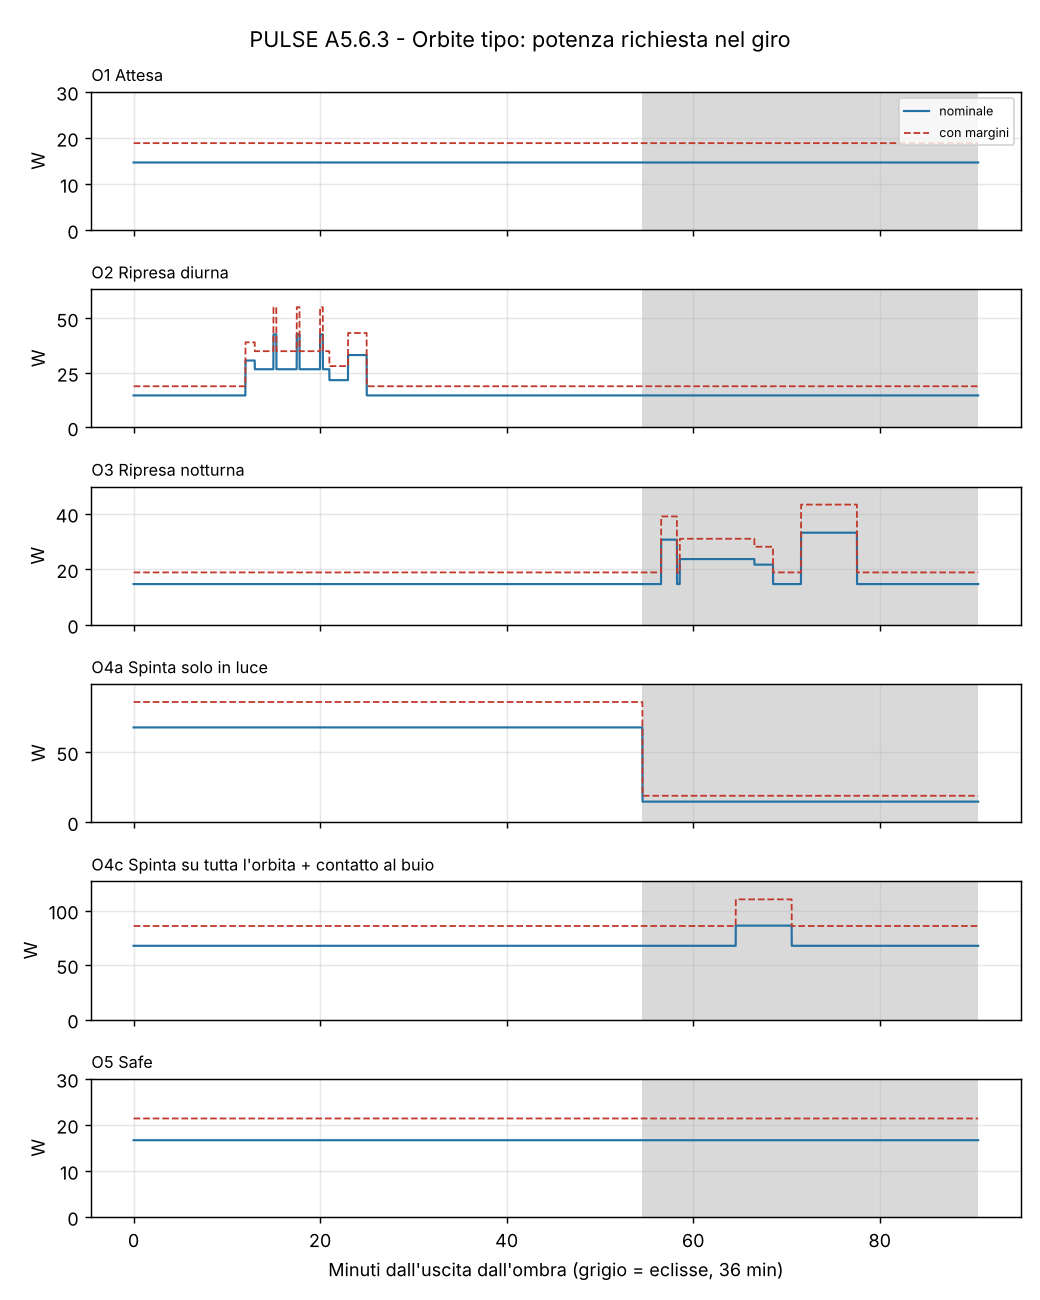
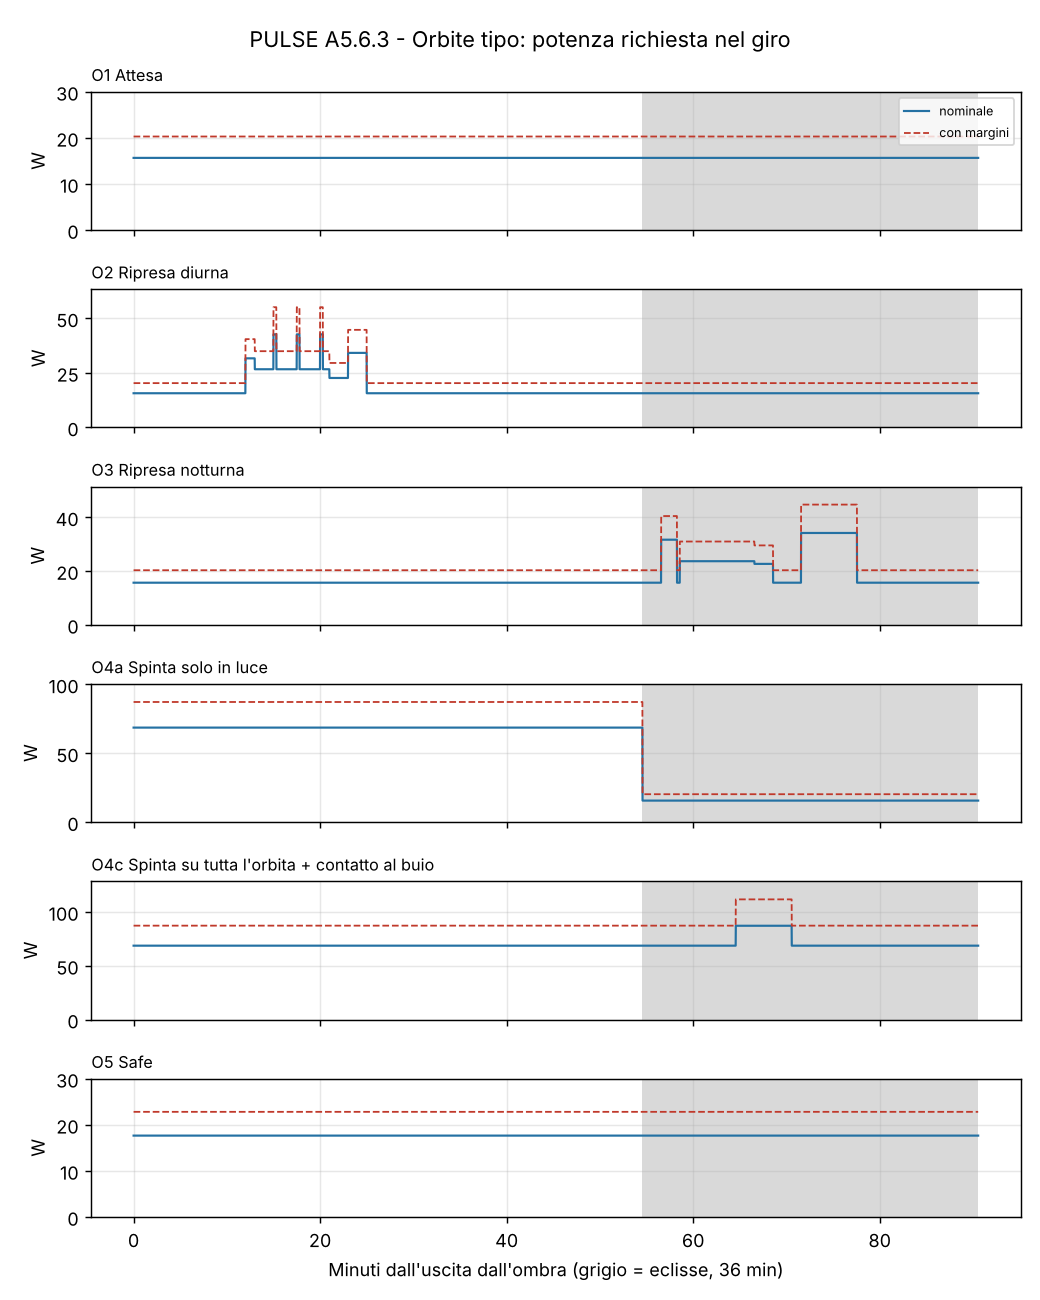
Update PULSE_EPS folder

diff --git a/PULSE_EPS/A5.6/dimensionamento_pannelli.py b/PULSE_EPS/A5.6/dimensionamento_pannelli.py
@@ -1,0 +1,52 @@
+"""PULSE A5.6.6 - Dimensionamento dei pannelli con una cella reale.
+
+Cella di riferimento: Azur Space 3G30-Advanced (datasheet bdb_00010894-02-00):
+  77,55 cm2, BOL 3,08 W (29,0%), a 5E14 e/cm2 Pmp 2,85 W (Vmp 2,247 V, Imp 1,270 A),
+  dVmp/dT -7,1 mV/C, dImp/dT +0,62 mA/C (colonna 5E14). CIC 13,1 g.
+Pannello: 226 x 454 mm (come una faccia laterale), 9 celle (3 x 3) -> impaccamento 0,68.
+Configurazione D-106 (Proposta): ali a zenit + rollio fisso, k caso peggiore 0,575.
+Uso: python dimensionamento_pannelli.py
+"""
+import numpy as np
+
+# --- cella a fine vita, in temperatura
+VMP, IMP, PMP_5E14 = 2.247, 1.270, 2.85
+T_OP = 70.0                     # C, temperatura di lavoro delle ali (come EarthNext, WCT 70 C) - TBC
+dV, dI = -7.1e-3, 0.62e-3
+fT = (VMP + dV * (T_OP - 28)) * (IMP + dI * (T_OP - 28)) / (VMP * IMP)
+F_ALTRO = 0.98 * 0.97           # UV/contaminazione 2%; disaccoppiamento celle e cavi 3%
+P_CELLA = PMP_5E14 * fT * F_ALTRO
+N_CELLE = 9
+P_PAN = N_CELLE * P_CELLA
+A_PAN = 0.226 * 0.454
+K = 0.575                        # D-106, caso peggiore nei 2 anni
+XE, XD = 0.65, 0.85
+LUCE_H = 54.56 / 60
+ORB = 1440 / 90.56
+E_ECL = 12.2                     # Wh/orbita al buio con margini (attesa, A5.6.3, con D-107)
+ATTESA_W = 20.29                 # W con margini (con D-107)
+SPINTA_EXTRA_W = (50 * 1.05 + 3 * 1.10) * 1.2    # motore + magnetorquer, margini voce + sistema
+ALTRO_GIORNO = (5.2 + 28.9 + 6.9)                # Wh/giorno: riprese routine + contatti + RX S (A5.6.3)
+
+out = []; p = out.append
+p("PULSE A5.6.6 - Pannelli con cella Azur 3G30-Advanced")
+p("Cella: 5E14 e/cm2 -> %.2f W; a %.0f C fattore %.3f; altre perdite %.3f -> %.2f W per cella" % (PMP_5E14, T_OP, fT, F_ALTRO, P_CELLA))
+p("Pannello 226x454 mm con %d celle: %.1f W a incidenza normale (%.0f W/m2 di pannello)" % (N_CELLE, P_PAN, P_PAN / A_PAN))
+p("Con k = %.3f: %.1f W medi in luce per pannello" % (K, P_PAN * K))
+p("")
+for nome, e_giorno in (("Sole medio (routine)", 809.0), ("Sole alto", 1050.0)):
+    e_orb = e_giorno / ORB
+    psa = (E_ECL / XE + (e_orb - E_ECL) / XD) / LUCE_H
+    p("%-22s Psa %.1f W -> pannelli necessari %.2f" % (nome, psa, psa / (P_PAN * K)))
+p("")
+p("Ore di spinta al giorno sostenibili, per numero di pannelli (bilancio energetico per orbita, con margini):")
+for n in (5, 6, 7, 8):
+    psa = n * P_PAN * K
+    e_luce_max = XD * (psa * LUCE_H - E_ECL / XE)          # Wh/orbita disponibili per i carichi in luce
+    libero = e_luce_max - ATTESA_W * LUCE_H - ALTRO_GIORNO / ORB
+    ore = max(libero, 0) / SPINTA_EXTRA_W * ORB
+    p("  %d pannelli: Psa %.1f W -> spinta sostenibile %.1f h/giorno (servono 4,2 Sole medio, 7,8 Sole alto)" % (n, psa, ore))
+p("")
+p("Massa delle celle (CIC 13,1 g): %.0f g per pannello; substrato, cerniere e cavi da A5.7 (TBD)" % (13.1 * N_CELLE))
+txt = "\n".join(out); print(txt)
+open("risultati/dimensionamento_pannelli.txt", "w").write(txt + "\n")

diff --git a/PULSE_EPS/A5.6/dimensionamento_batteria.py b/PULSE_EPS/A5.6/dimensionamento_batteria.py
@@ -1,0 +1,32 @@
+"""PULSE A5.6.6 - Dimensionamento della batteria.
+
+Energia chiesta alla batteria nel caso peggiore: orbita O3 (ripresa notturna e contatto al buio), 16,9 Wh
+con margini (A5.6.3). La spinta si programma nella parte centrale della luce, dove le ali producono di piu'
+(D-105): in quei minuti la batteria non scarica (da verificare in A5.6.7).
+Cella di riferimento: Li-ion 18650 da 2,6 Ah (classe GomSpace NanoPower), 3,6 V nominali -> 9,36 Wh.
+Configurazione 4S (12-16,8 V, bus non regolato come EarthNext).
+Uso: python dimensionamento_batteria.py
+"""
+E_CARICO = 16.9          # Wh al buio, O3, con margini (con D-107)
+ETA_SCARICA = 0.90       # batteria -> carichi (convertitori e cavi), stima
+FADE_EOL = 0.80          # capacita' a fine vita (perdita 20% in ~11.600 cicli), stima TBC
+CELLA_WH = 2.6 * 3.6
+S = 4
+E_BATT = E_CARICO / ETA_SCARICA
+out = []; p = out.append
+p("PULSE A5.6.6 - Batteria")
+p("Energia da dare al buio: %.1f Wh ai carichi -> %.1f Wh dalla batteria (rendimento %.2f)" % (E_CARICO, E_BATT, ETA_SCARICA))
+p("Stringa 4S: %.1f Wh; capacita' a fine vita %.0f%%" % (S * CELLA_WH, FADE_EOL * 100))
+for npar in (2, 3, 4):
+    c = S * npar * CELLA_WH
+    dod = E_BATT / (c * FADE_EOL)
+    dod_g = E_BATT / (c * (npar - 1) / npar * FADE_EOL)
+    p("  4S%dP: %5.1f Wh, %2d celle -> profondita' di scarica a fine vita %.0f%%; con una stringa guasta %.0f%%" % (
+        npar, c, S * npar, 100 * dod, 100 * dod_g))
+p("")
+p("Autonomia in detumbling dopo il rilascio (16,7 W con margini, ali chiuse, batteria piena all'80%):")
+for npar in (2, 3, 4):
+    c = S * npar * CELLA_WH
+    p("  4S%dP: %.1f h" % (npar, c * 0.8 * ETA_SCARICA / 16.7))
+txt = "\n".join(out); print(txt)
+open("risultati/dimensionamento_batteria.txt", "w").write(txt + "\n")

diff --git a/PULSE_EPS/A5.6/orbite_tipo.py b/PULSE_EPS/A5.6/orbite_tipo.py
@@ -18,8 +18,8 @@ A = {
     "base":        (12.655, None),   # dettaglio sotto
     "magnetorquer": (3.0, 0.10), "motore": (50.0, 0.05), "radioS": (15.0, 0.10), "rxS": (4.0, 0.10),
     "sens_giorno": (5.0, 0.10), "sens_notte": (2.0, 0.10), "fpga": (5.0, 0.10), "ai": (2.0, 0.10),
-    "scheda_attesa": (3.5, 0.10), "risc_media": (2.0, 0.20), "risc_extra": (2.0, 0.20),  # 4 W a coperchio aperto = media + extra
-    "risc_safe": (1.0, 0.20), "ruote_picco": (16.0, 0.05),
+    "scheda_attesa": (3.5, 0.10), "risc_media": (3.0, 0.20), "risc_extra": (1.0, 0.20),  # 3 W in operazioni (D-100 + D-107); 4 W a coperchio aperto = media + extra
+    "risc_safe": (2.0, 0.20), "ruote_picco": (16.0, 0.05),
 }
 BASE = {  # W, margine
     "ruote": (4.0, 0.05), "star_tracker": (1.0, 0.05), "giroscopio": (5.0, 0.05), "magnetometro": (0.75, 0.05),
@@ -116,7 +116,7 @@ for k, (ng, nn, ore) in giorni.items():
     p("%-36s %9.0f %9.1f %9.0f %9.1f %9.1f %10.0f %9.1f" % (k, e_att * f, e_rip * f, e_sp * f, e_ct * f, e_rx * f, tot, tot / 24))
 p("")
 p("Per confronto, energia nominale (senza margini) della routine: %.0f Wh/giorno" % (
-    (BASE_NOM + 2) * 24 + (5 * 8 + 5 * 10 + 2 * 2 + 2 * 8) / 60 + (2 * 8 + 5 * 10 + 2 * 2 + 2 * 8) / 60 + 53 * 4.2 + 18.5 * 71 / 60 + 4 * 1.3))
+    (BASE_NOM + 3) * 24 + (5 * 8 + 5 * 10 + 2 * 2 + 1 * 8) / 60 + (2 * 8 + 5 * 10 + 2 * 2 + 1 * 8) / 60 + 53 * 4.2 + 18.5 * 71 / 60 + 4 * 1.3))
 txt = "\n".join(out); print(txt)
 import os; os.makedirs("risultati", exist_ok=True)
 open("risultati/orbite_tipo.txt", "w").write(txt + "\n")

diff --git a/PULSE_EPS/A5.6/modi_potenza.py b/PULSE_EPS/A5.6/modi_potenza.py
@@ -17,9 +17,9 @@ APP = {
     "Sensore notturno":     2.0,    # P-13
     "Scheda (ripresa)":     7.0,    # P-15 FPGA 5 + AI 2
     "Scheda (attesa)":      3.5,    # P-15 durante lo scarico (D-092, D-097)
-    "Riscaldatori payload (picco)": 4.0,  # P-23, coperchio aperto (D-100)
-    "Riscaldatori payload (media)": 2.0,  # P-23, operazioni (D-100)
-    "Riscaldatori payload (safe)":  1.0,  # P-23, sopravvivenza (D-100)
+    "Riscaldatori payload (picco)": 4.0,  # P-23, coperchio aperto (D-100, D-107)
+    "Riscaldatori payload (media)": 3.0,  # P-23, operazioni (D-100 + 1 W di sopravvivenza D-107)
+    "Riscaldatori payload (safe)":  2.0,  # P-23, safe (D-100 + D-107)
     "OBC (TBC)":            0.4,    # classe ISIS iOBC, 400 mW medi
     "EPS a vuoto (TBC)":    0.6,    # classe GomSpace P60 (ACU + PDU), 600 mW in attesa
     "Termico piattaforma (TBD)": 0.0,  # riscaldatori batteria: da A5.6.6

diff --git a/PULSE_EPS/A5.6/pannelli_config.py b/PULSE_EPS/A5.6/pannelli_config.py
@@ -21,8 +21,8 @@ W_M2 = 270.0       # W/m2 di pannello a incidenza normale, fine vita, a temperat
 XE, XD = 0.65, 0.85   # rendimenti batteria->carico in eclisse e pannello->carico in luce (SMAD, MPPT)
 LUCE_H, ECL_H = 54.56 / 60, 36.0 / 60     # D-102
 # energia per orbita con margini (orbite_tipo.py): attesa al buio 11,3 Wh; carico in luce dai giorni tipo
-E_ECL = 11.3
-GIORNI = {"Routine": 775.0, "Sole alto": 1016.0}   # Wh/giorno con margini (A5.6.3)
+E_ECL = 12.2
+GIORNI = {"Routine": 809.0, "Sole alto": 1050.0}   # Wh/giorno con margini (A5.6.3)
 ORB = 1440 / 90.56
 
 G = np.loadtxt(os.path.join(os.path.dirname(__file__), "risultati/gmat_ltdn_inclinazione.csv"), delimiter=",")

diff --git a/PULSE_EPS/A5.6/README.md b/PULSE_EPS/A5.6/README.md
@@ -11,6 +11,8 @@ Calcoli del passo A5.6 (bilancio di potenza ed EPS di piattaforma, responsabile 
 | `modi_potenza.py` | A5.6.3 | Tabella modi × apparati |
 | `orbite_tipo.py` | A5.6.3 | Orbite tipo minuto per minuto e giorni tipo (energia con margini) |
 | `pannelli_config.py` | A5.6.5 | Fattore di illuminazione delle configurazioni di pannelli, area necessaria, drag, Sole sui radiatori |
+| `dimensionamento_pannelli.py` | A5.6.6 | Pannelli con la cella Azur 3G30-Advanced, spinta sostenibile per numero di pannelli |
+| `dimensionamento_batteria.py` | A5.6.6 | Batteria 4S nP: profondità di scarica e autonomia |
 | `gmat_blocchi_A5_6_2.txt` | A5.6.2 | Blocchi GMAT di verifica (eclipse locator e inclinazione media giornaliera) |
 
 Uso: `python luce_eclisse.py 2026`, poi `python figura_luce.py`. Risultati in `risultati/`.
